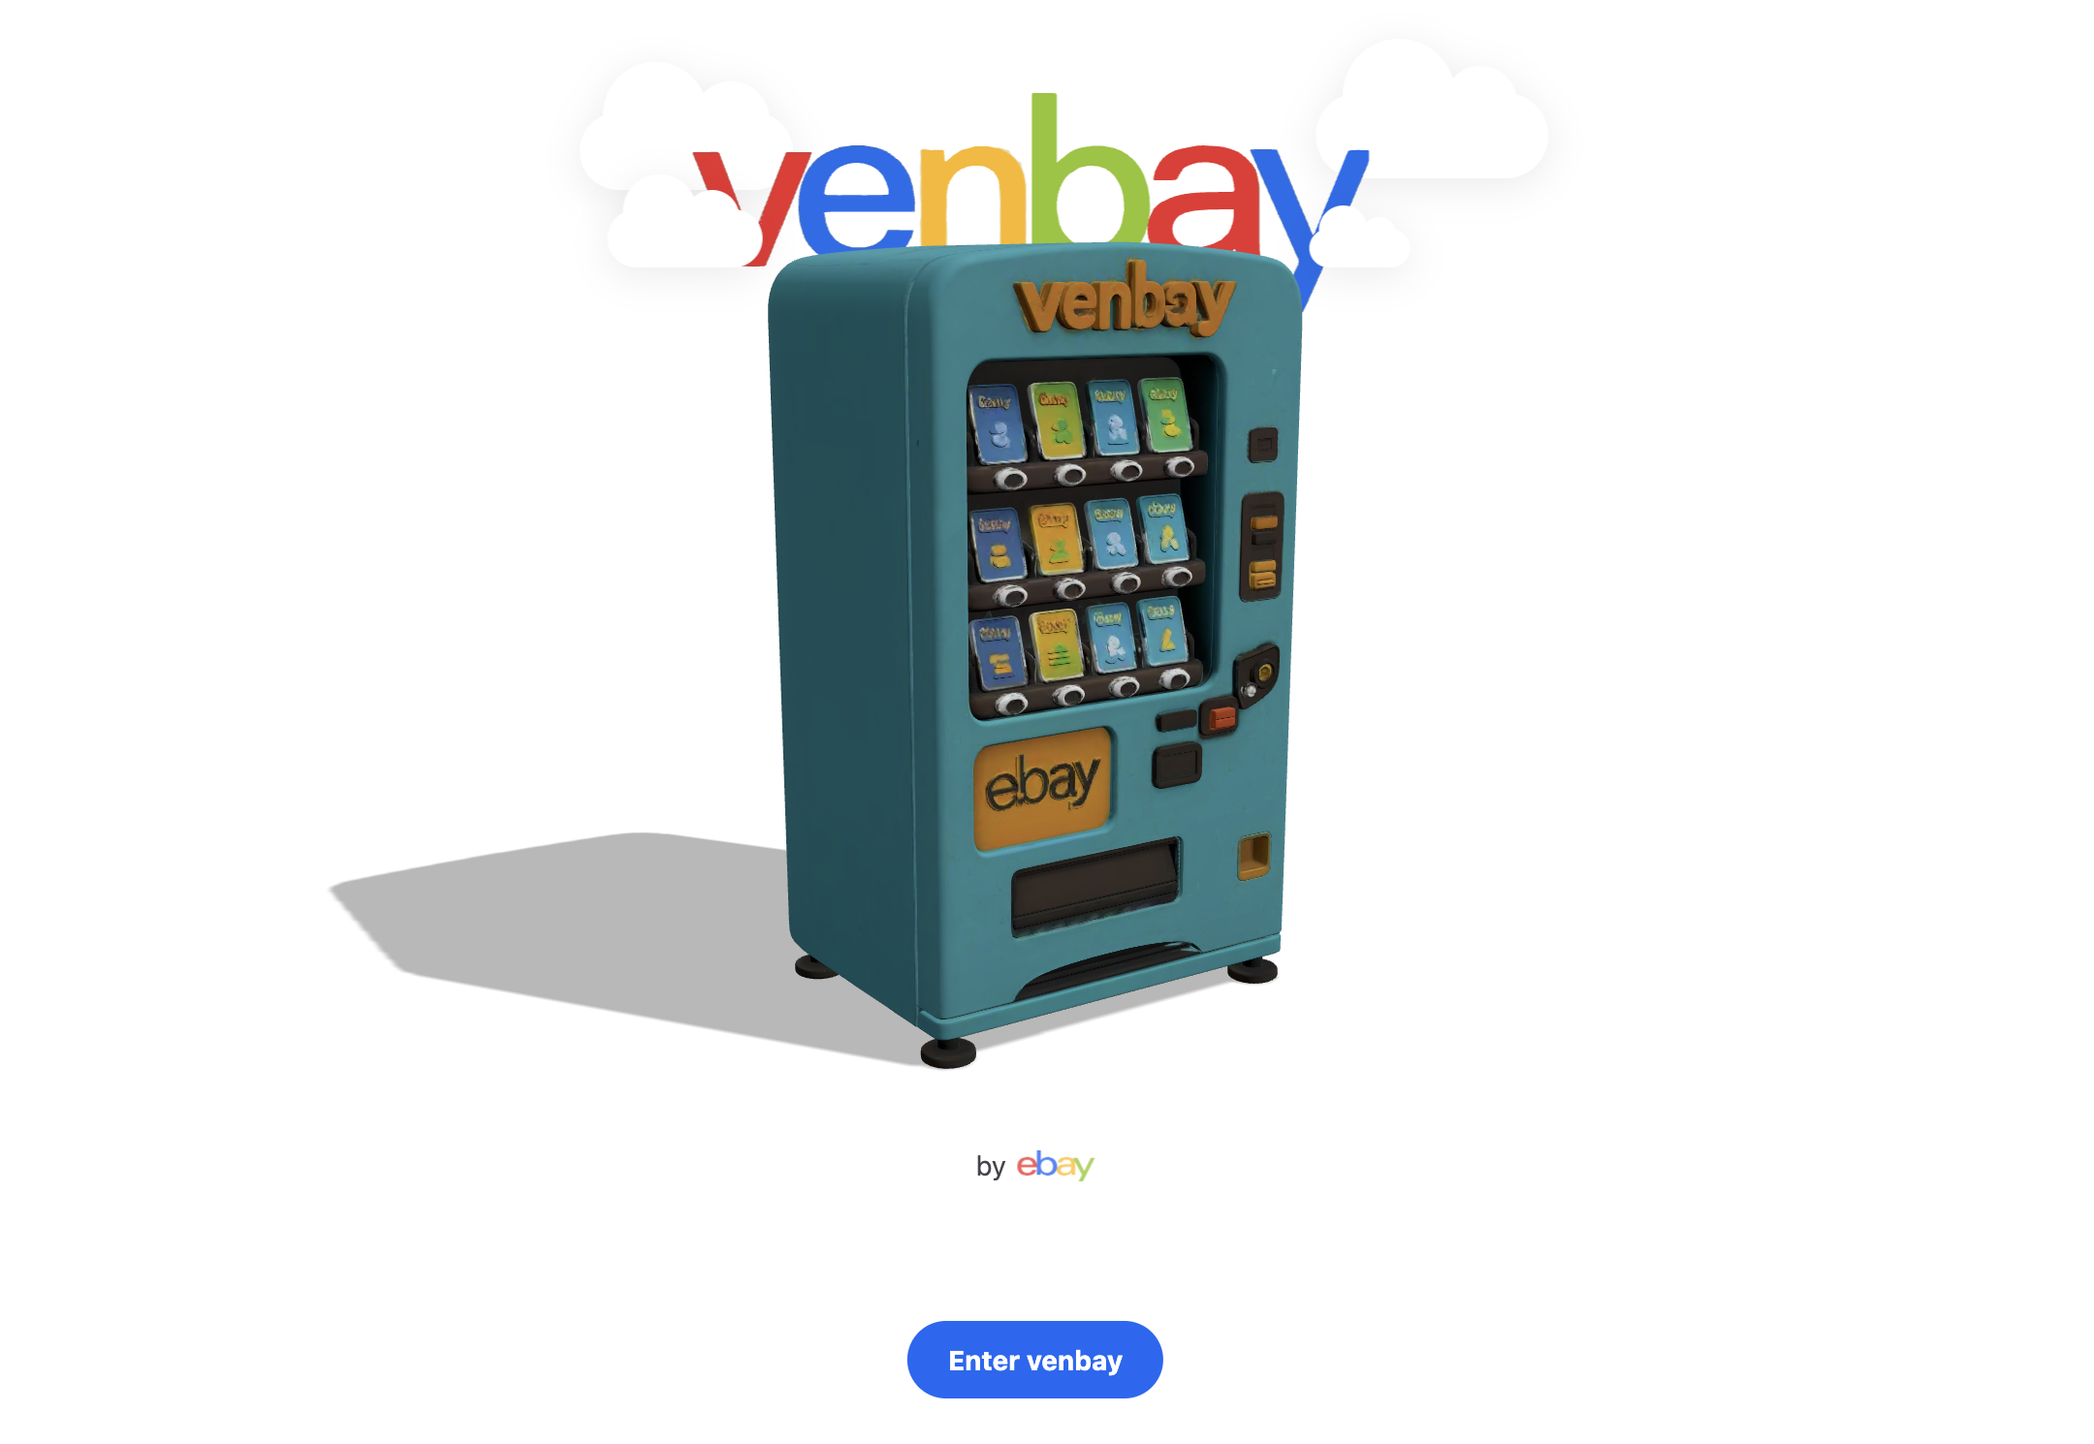
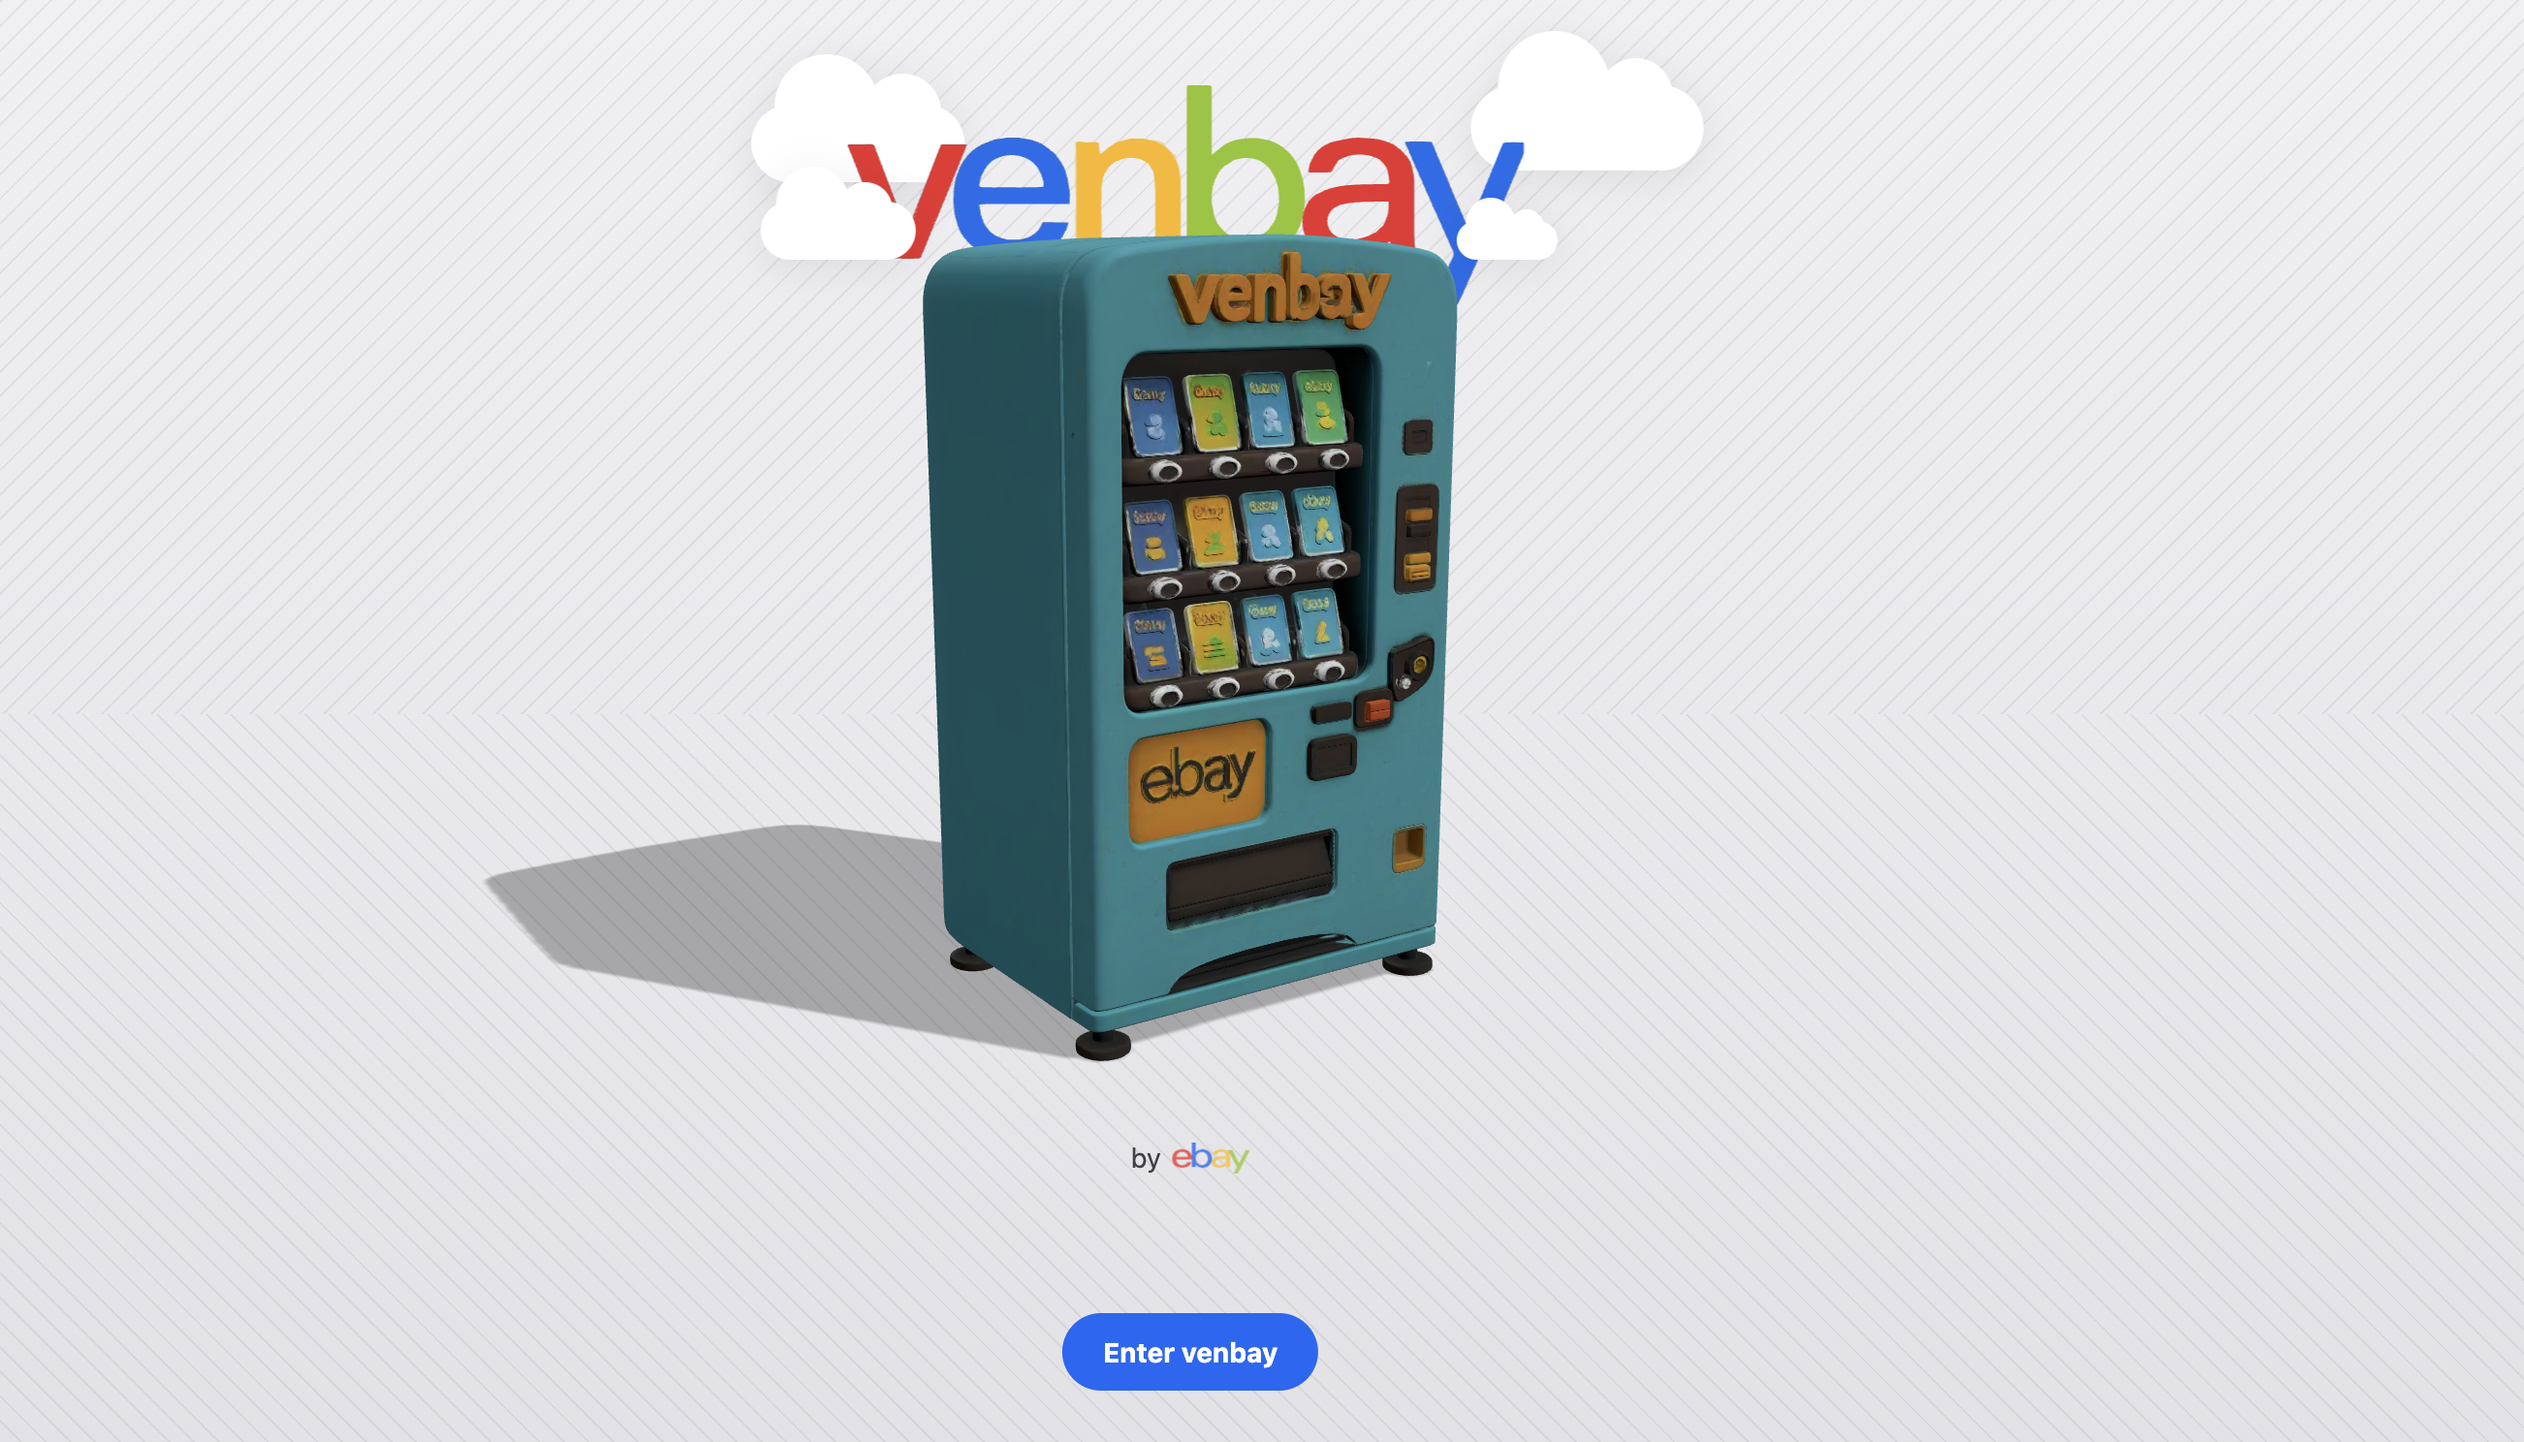
chore: add text/color to 3D scene bg, update readme-photo, and last touches on APPROACH

diff --git a/documentation/noel-share/APPROACH.md b/documentation/noel-share/APPROACH.md
@@ -109,7 +109,7 @@ Everything themed also has to explicitly set `color`/`background` from those tok
 
 ## Incorporating 3D
 
-Created the object using krea.ai, exported as `.glb`. Used https://optimizeglb.com/dashboard to compress from 51mb to 1.6mb.
+First, if you want to see the 3D scene again easily, while on the home page, click the top left logo. I created the object using krea.ai, exported as `.glb`. Used https://optimizeglb.com/dashboard to compress from 51mb to 1.6mb.
 
 Rendering is hand-rolled `three` (`GLTFLoader`, no scene-management library) inside a single Marko tag (`machine-intro.marko`) driven by a `<lifecycle>` block — Marko owns mount/unmount, three.js owns the render loop in between.
 
@@ -136,6 +136,7 @@ I didn't want to overhaul a ton of code but wanted to demonstrate my considerati
 
 - [ ] Loading states
 - [ ] Further review on code quality
+- [ ] Setup CI checks for running tests during deployment
 - [ ] Weave in more of ebay's coreui, improving accessibility
 - [ ] Cohesive styling between vending machine and app UI
 - [ ] Exhaustive testing, leverage storybook/testing tools for higher confidence
